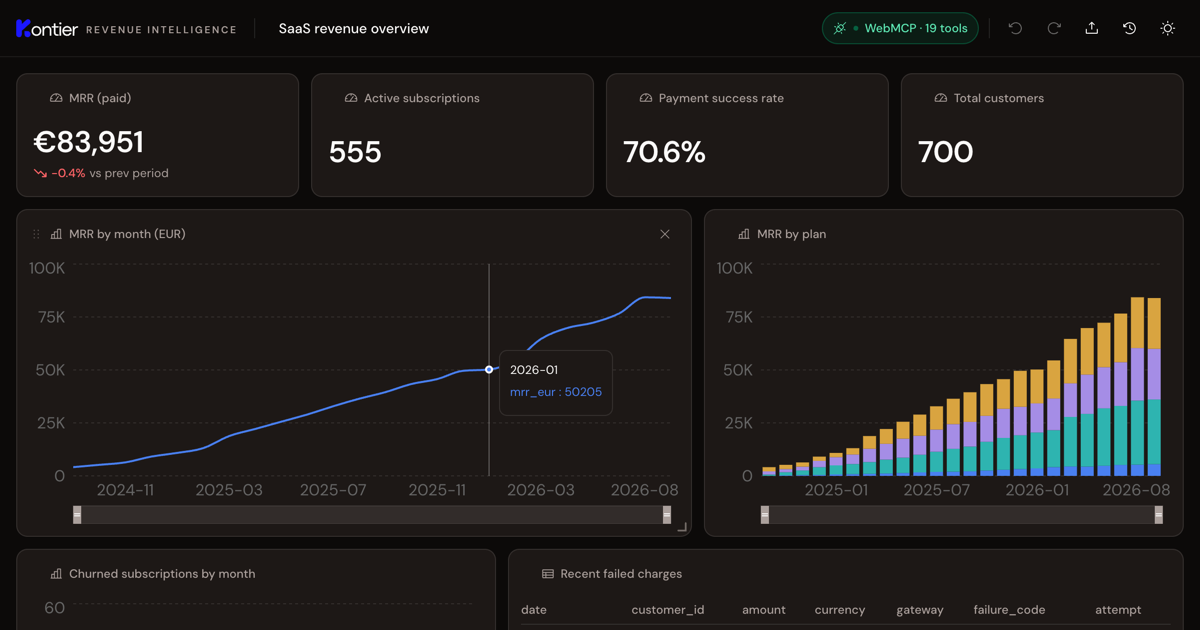
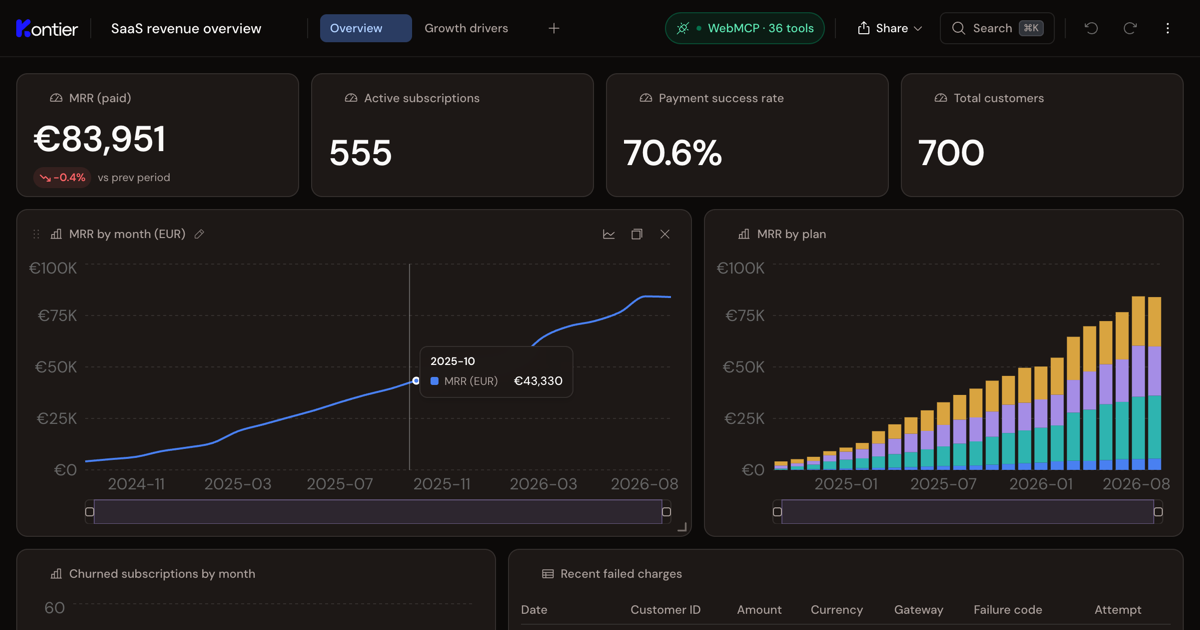
docs+media: v3 reality — 39 tools, 100M-row scale, agent presence; fresh hero/og with new chrome

diff --git a/docs/SUBMISSION.md b/docs/SUBMISSION.md
@@ -13,7 +13,7 @@ on the same canvas, with your data never leaving the browser.
 BI tools are the canonical "deep UI" problem: dozens of menus, query builders,
 chart editors. Agents guessing their way through that UI fail; a headless API
 loses the human. WebMCP is the only architecture where the agent operates the
-*same live document* the human is looking at. Kontier RI registers 32 static +
+*same live document* the human is looking at. Kontier RI registers 36 static +
 3 selection-scoped dynamic tools from the page (`document.modelContext`), all
 zod-defined (one schema = runtime validation + JSON Schema), with tools mounted
 and unmounted by React component lifecycle. SQL runs in-page via DuckDB-WASM,
@@ -92,7 +92,7 @@ push to main via .github/workflows/deploy.yml (static export, basePath
 "BI tools bury you in menus. AI chatbots hand you static charts you can't touch.
 Kontier RI is what happens when you stop choosing: an open-source analytics
 studio where you and your AI agent work on the same canvas, at the same time.
-It's built on WebMCP — this page registers thirty-five structured tools that any
+It's built on WebMCP — this page registers thirty-nine structured tools that any
 browser agent can call. And the data? It loads into DuckDB inside your browser.
 Raw rows never leave the page."
 
@@ -124,7 +124,7 @@ Strict schemas bounce it with a helpful error."
 **[2:25 — repo, README, AGPL badge, DataSource seam diagram]**
 "Kontier RI is AGPL open source, built on the exact stack of our billing
 product, Kontier — because this is the future analytics engine of a real SaaS.
-One interface swap connects it to any backend. Thirty-five tools, one canvas,
+One interface swap connects it to any backend. Thirty-nine tools, one canvas,
 two kinds of hands. This is what the agent-native web looks like when humans
 stay in charge."
 
@@ -132,13 +132,13 @@ stay in charge."
 
 Option A — ChatGPT in-app browser (recommended, zero setup):
 1. Open the ChatGPT desktop app, open the built-in browser, and go to: <LIVE_URL>
-2. The WebMCP pill in the top bar turns green: "WebMCP · 32 tools".
+2. The WebMCP pill in the top bar turns green: "WebMCP · 36 tools".
 3. Click "Load demo dashboard" (or upload any CSV — data stays in your browser).
 4. Ask the agent, e.g.:
    - "Look at my dashboard and tell me what stands out."
    - "Add a KPI for average revenue per customer."
    - "Find the churn spike and explain what caused it. Add a drill-down chart."
-5. Co-work: drag/resize a tile, recolor a chart (select it — 3 extra tools appear, 32 → 35),
+5. Co-work: drag/resize a tile, recolor a chart (select it — 3 extra tools appear, 36 → 39),
    then brush a date range on the MRR chart and ask "why did this happen?"
    The agent reads your brush selection via get_user_focus.
 6. Try to make it misbehave: ask it to DROP a table (read-only guard refuses),

diff --git a/README.md b/README.md
@@ -38,7 +38,9 @@ live document* the human is looking at:
 - **Calculated fields & SQL views** — define `arpu` once, use it everywhere; views appear as datasets
 - **Pages, dashboards, templates** — multi-page docs, a local dashboard manager, 3 starter templates
 - **⌘K command palette**, presentation mode, PNG/CSV export, share-URLs, autosave persistence
-- **35 WebMCP tools** (32 static + 3 selection-scoped) — every one of these features is agent-operable
+- **Scale**: aggregate **100 million rows live in your browser** — DuckDB-WASM streams only the parquet row groups it needs (~15% of a 511MB dataset) over HTTP ranges
+- **Agent presence**: Kai's plan card, proactive insight chips, and a visible cursor — every move a real WebMCP tool call
+- **39 WebMCP tools** (32 static + 3 selection-scoped) — every one of these features is agent-operable
 
 ## 60-second quickstart
 
@@ -119,7 +121,7 @@ In practice that call lives behind our `useWebMCPTool` React hook
 (`packages/studio/src/webmcp/useWebMCPTool.ts`): tools mount with components,
 re-validate input with the same zod schema that produced the JSON Schema, and
 unregister via `AbortController` — which is how the three selection-scoped
-tools appear only while a tile is selected (32 → 35 tools live).
+tools appear only while a tile is selected (36 → 39 tools live).
 
 ## Privacy
 
